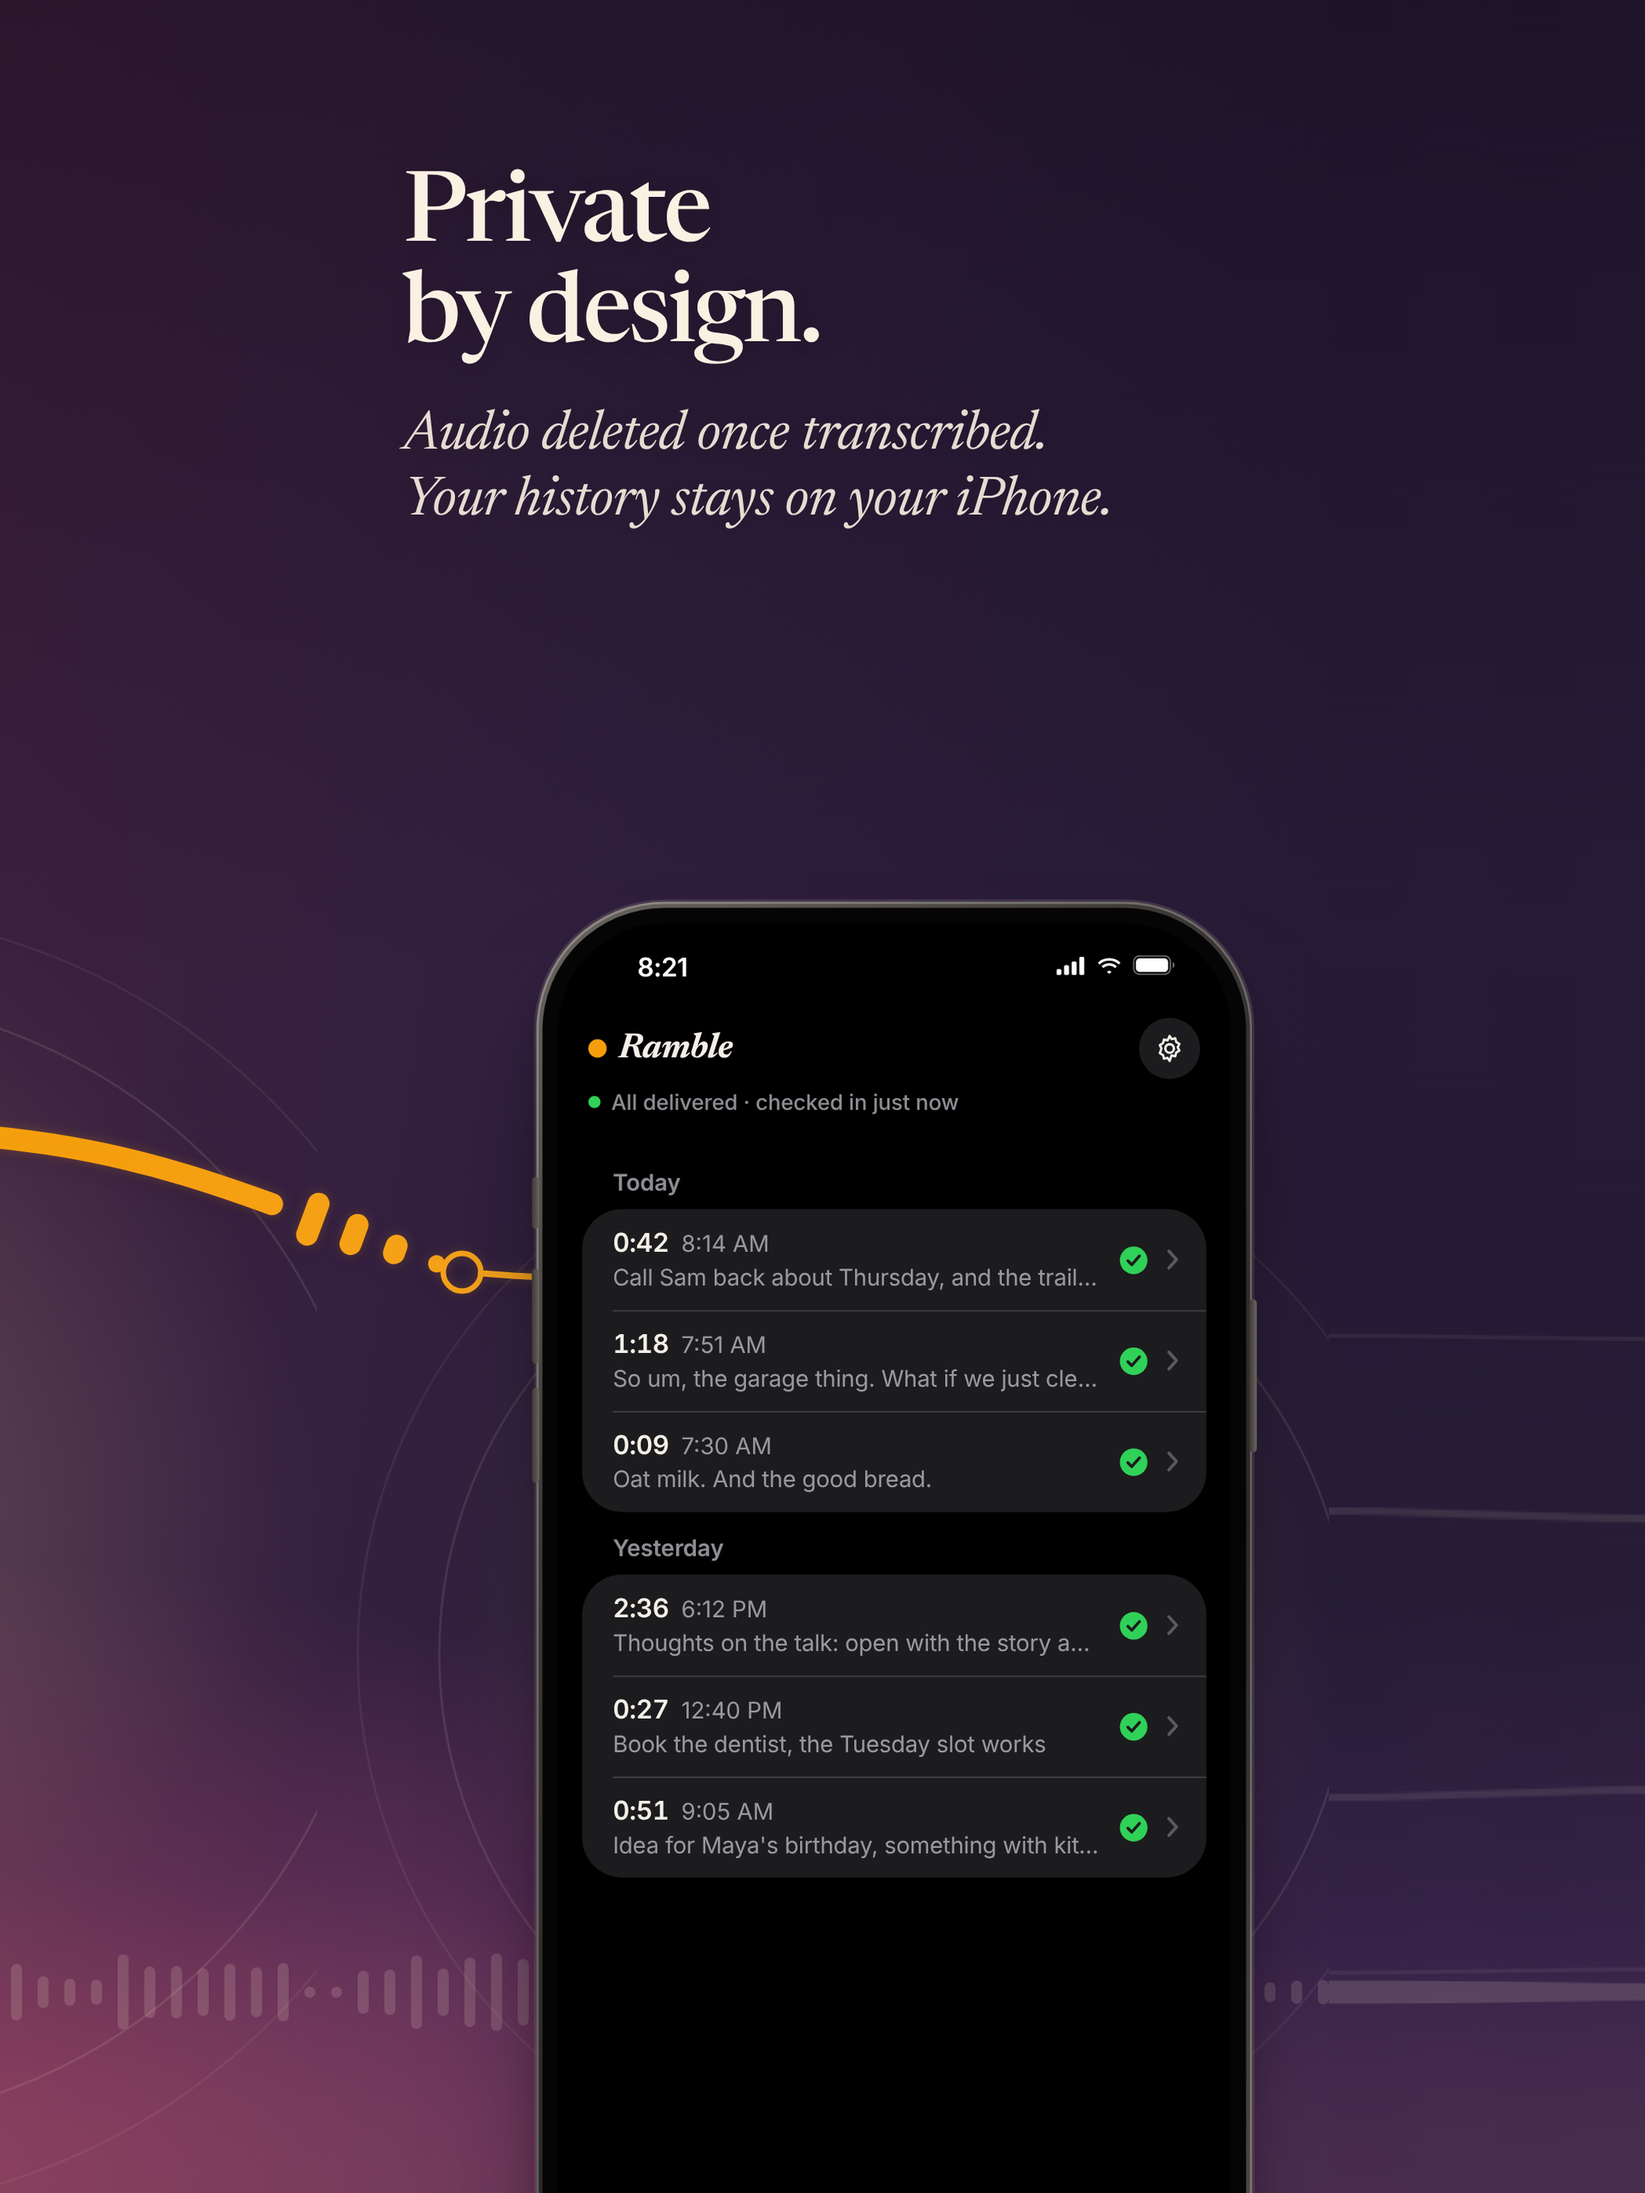
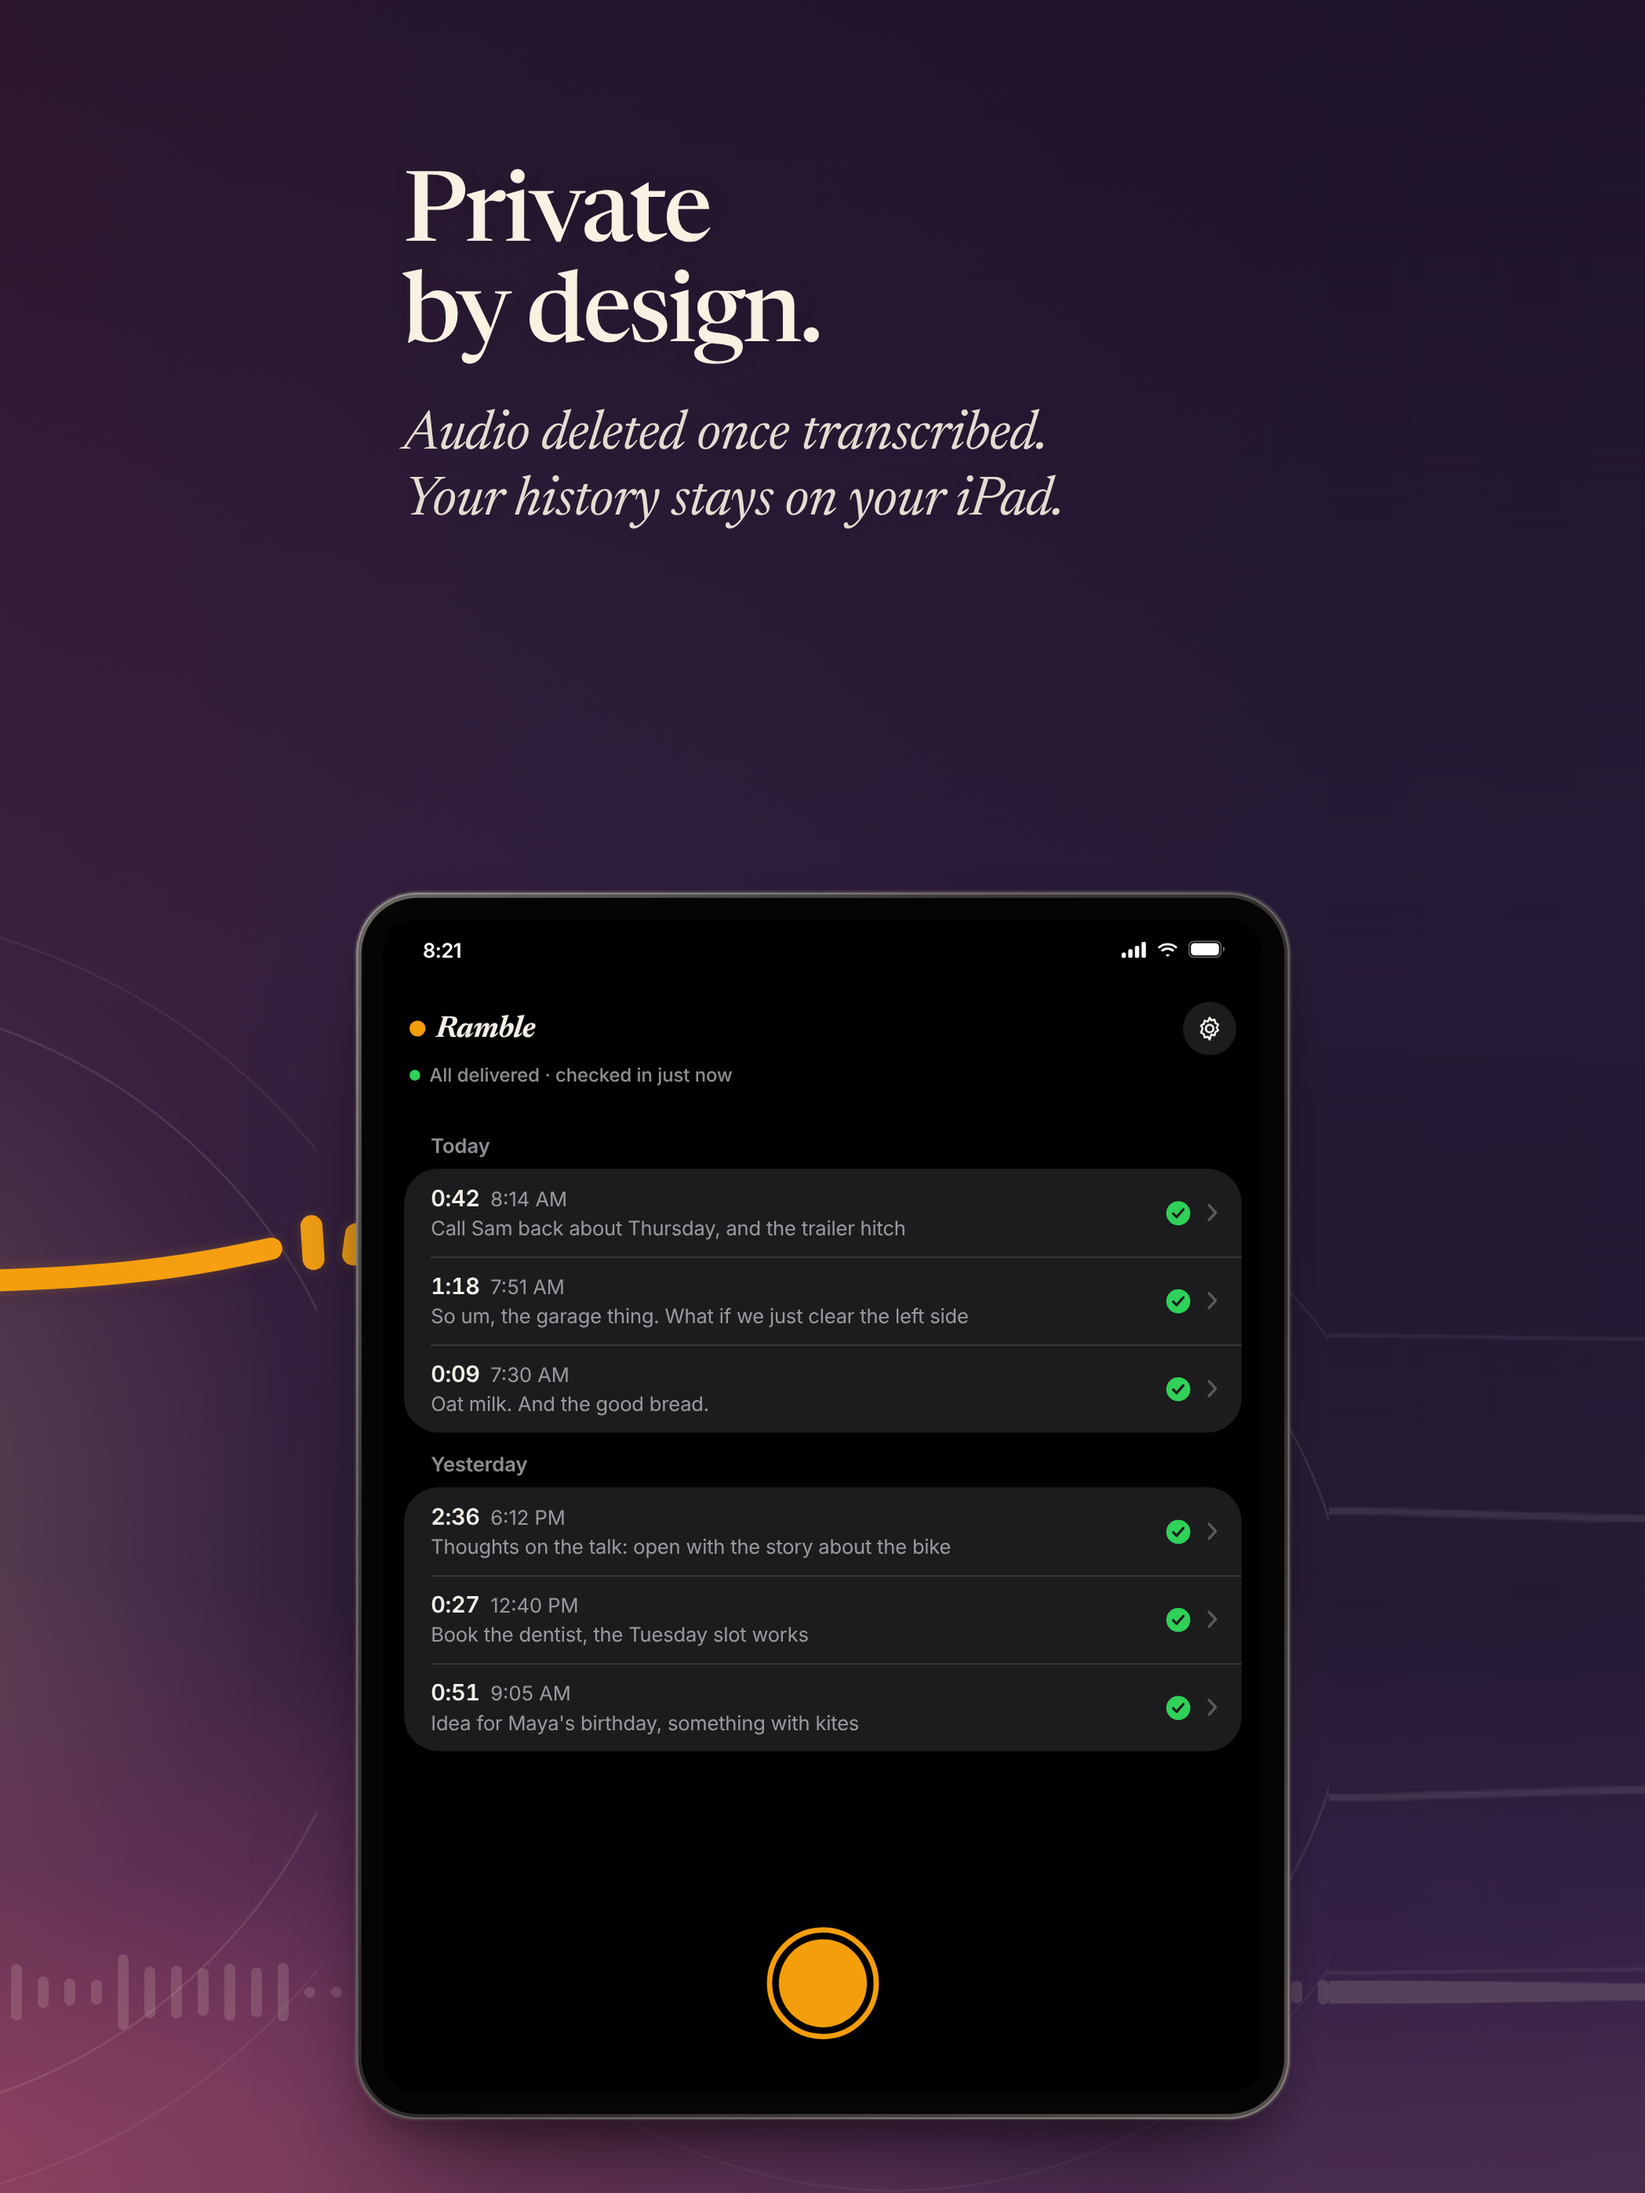
iPad screenshots show an iPad instead of an iPhone
one-line.html?ipad=1 draws the phones as 3:4 iPads and says 'on your iPad'; ipad-render.js uses it.

Claude-Session: https://claude.ai/code/session_01TreUG3dxqf5pNrzoUT7rcK

Changed region(s): [[0.0, 0.4062, 0.8062, 1.0], [0.0, 0.5, 0.093, 0.5312], [0.6202, 0.2188, 0.6822, 0.25]]

diff --git a/images/appstore/2026-sunset/source/one-line.html b/images/appstore/2026-sunset/source/one-line.html
@@ -258,6 +258,12 @@ body.dark .phone.set { box-shadow: 0 50px 70px -30px rgba(10,4,8,.55), inset 0 0
 .phone .sb { position: absolute; top: 0; left: 0; right: 0; height: 54px; z-index: 4; color: var(--s-status); }
 .phone .sb .t { position: absolute; left: 52px; top: 19px; font-size: 17px; font-weight: 600; letter-spacing: -0.3px; }
 .phone .sb .r { position: absolute; right: 36px; top: 21px; display: flex; gap: 7px; align-items: center; }
+/* iPad (?ipad=1), 660 x 880 screen, the 13" iPad's 3:4 */
+body.ipad .phone { width: 700px; height: 920px; border-radius: 46px; padding: 20px; }
+body.ipad .phone::before { border-radius: 42px; }
+body.ipad .phone .scr { width: 660px; height: 880px; border-radius: 26px; }
+body.ipad .phone .sb .t { left: 30px; top: 14px; font-size: 15px; }
+body.ipad .phone .sb .r { right: 28px; top: 16px; }
 
 /* note screen (Ramble) */
 .nb { position: absolute; top: 58px; left: 16px; height: 44px; display: flex; align-items: center; z-index: 2; }
@@ -516,6 +522,19 @@ if (params.get('bg') === 'q') WAVE = { h: 290, op: .15, echo: .07 };
 if (params.get('bg') === 'r') WAVE = { h: 290, op: .15, echo: 0 };
 if (params.has('debug')) document.body.classList.add('debug');
 
+// ?ipad=1: the phones become iPads (for the 13" iPad set, see ipad-render.js)
+if (params.has('ipad')) {
+  document.body.classList.add('ipad');
+  document.querySelectorAll('.phone .island, .phone .btn').forEach(e => e.remove());
+  // per phone, in page order: [left, top, scale]
+  const IPAD = [[1960, 2700, 1.85], [645, 1990, 1.75], [5805, 1920, 1.7]];
+  document.querySelectorAll('.dev > .phone').forEach((p, i) => {
+    const [l, t, s] = IPAD[i], d = p.parentElement;
+    d.style.left = l + 'px'; d.style.top = t + 'px'; d.style.setProperty('--s', s);
+  });
+  document.querySelectorAll('.copy p').forEach(e => { e.innerHTML = e.innerHTML.replace('on your iPhone', 'on your iPad'); });
+}
+
 // Status bar, list rows, check icons
 const SB = '<svg width="19" height="12" viewBox="0 0 19 12" fill="currentColor"><rect x="0" y="8" width="3.2" height="4" rx="1"/><rect x="5" y="5.5" width="3.2" height="6.5" rx="1"/><rect x="10" y="3" width="3.2" height="9" rx="1"/><rect x="15" y="0" width="3.2" height="12" rx="1"/></svg>' +
   '<svg width="17" height="12" viewBox="0 0 17 12" fill="currentColor"><path d="M8.5 2.6c2.4 0 4.6.9 6.2 2.5l1.2-1.2C14 2 11.4.9 8.5.9S3 2 1.1 3.9l1.2 1.2C3.9 3.5 6.1 2.6 8.5 2.6zm0 3.3c1.5 0 2.8.6 3.8 1.5l1.2-1.2C12.2 4.9 10.4 4.2 8.5 4.2s-3.7.7-5 2l1.2 1.2c1-.9 2.3-1.5 3.8-1.5zm0 3.3c.6 0 1.1.2 1.5.6L8.5 11.3 7 9.8c.4-.4.9-.6 1.5-.6z"/></svg>' +
@@ -626,7 +645,9 @@ const NODES_T = [
   [4560, MSGY + 30,  0, 400, 380], // through the message box
   [5345, 1622,  18, 300,   0],   // F5: the relay node
 ];
-const d = LINE === 'sine' ? 'M' + LP.map(q => q[0].toFixed(1) + ',' + q[1].toFixed(1)).join(' L') : nodesToPath(LINE === 'r9' ? NODES : NODES_T);
+// the iPad's message box is wider and shorter: stay level through it for longer
+if (params.has('ipad')) NODES_T[10] = [4640, MSGY, 0, 420, 560];
+const d =LINE === 'sine' ? 'M' + LP.map(q => q[0].toFixed(1) + ',' + q[1].toFixed(1)).join(' L') : nodesToPath(LINE === 'r9' ? NODES : NODES_T);
 const spine = document.getElementById('spine'), ink = document.getElementById('ink');
 spine.setAttribute('d', d);
 const L = spine.getTotalLength();

diff --git a/images/appstore/2026-sunset/source/ipad-render.js b/images/appstore/2026-sunset/source/ipad-render.js
@@ -11,7 +11,7 @@ const OUT = process.argv[3];
 (async () => {
   const browser = await chromium.launch();
   const page = await browser.newPage({ viewport: { width: 6450, height: 2796 }, deviceScaleFactor: 1 });
-  await page.goto('file://' + SRC + '?bg=t');
+  await page.goto('file://' + SRC + '?bg=t&ipad=1');
   await page.evaluate(() => document.fonts.ready);
   await page.waitForTimeout(1500);
   for (let i = 0; i < 5; i++) {

diff --git a/docs/app-store.md b/docs/app-store.md
@@ -96,7 +96,7 @@ Requires an Apple Watch paired with an iPhone.
 
 Short, one thought each, in this order. Mindfulness first: a short headline and a smaller second line. The first screenshot shows the watch, not the phone.
 
-The iPhone screenshots (1206 × 2622, the size App Store Connect accepted) and the product page header (5244 × 2950 and 3840 × 1646) are in `images/appstore/2026-sunset/`. Their HTML source is in `source/` there (open `one-line.html?bg=t` for the shipped look; it renders at 1290 × 2796, so scale to 1206 × 2622); change the copy here first, then re-render. The 13-inch iPad set (2064 × 2752) in `ipad/` is cut from the same panorama: `node source/ipad-render.js <abs path to one-line.html> <out dir>`, then `python3 source/ipad-crop.py <out dir>`. Apple Watch screenshots (422 × 514, Ultra simulator) are in `watch/`, and the unlock sheet screenshot for the in-app purchase review is in `review/`.
+The iPhone screenshots (1206 × 2622, the size App Store Connect accepted) and the product page header (5244 × 2950 and 3840 × 1646) are in `images/appstore/2026-sunset/`. Their HTML source is in `source/` there (open `one-line.html?bg=t` for the shipped look; it renders at 1290 × 2796, so scale to 1206 × 2622); change the copy here first, then re-render. The 13-inch iPad set (2064 × 2752) in `ipad/` is cut from the same panorama with the phones drawn as iPads (`one-line.html?bg=t&ipad=1`): `node source/ipad-render.js <abs path to one-line.html> <out dir>`, then `python3 source/ipad-crop.py <out dir>`. Apple Watch screenshots (422 × 514, Ultra simulator) are in `watch/`, and the unlock sheet screenshot for the in-app purchase review is in `review/`.
 
 1. Stay in the moment. (Talk to your watch. Your agent handles it later.)
 2. Leave your phone behind. (No iPhone needed. Sends when you reconnect.)
